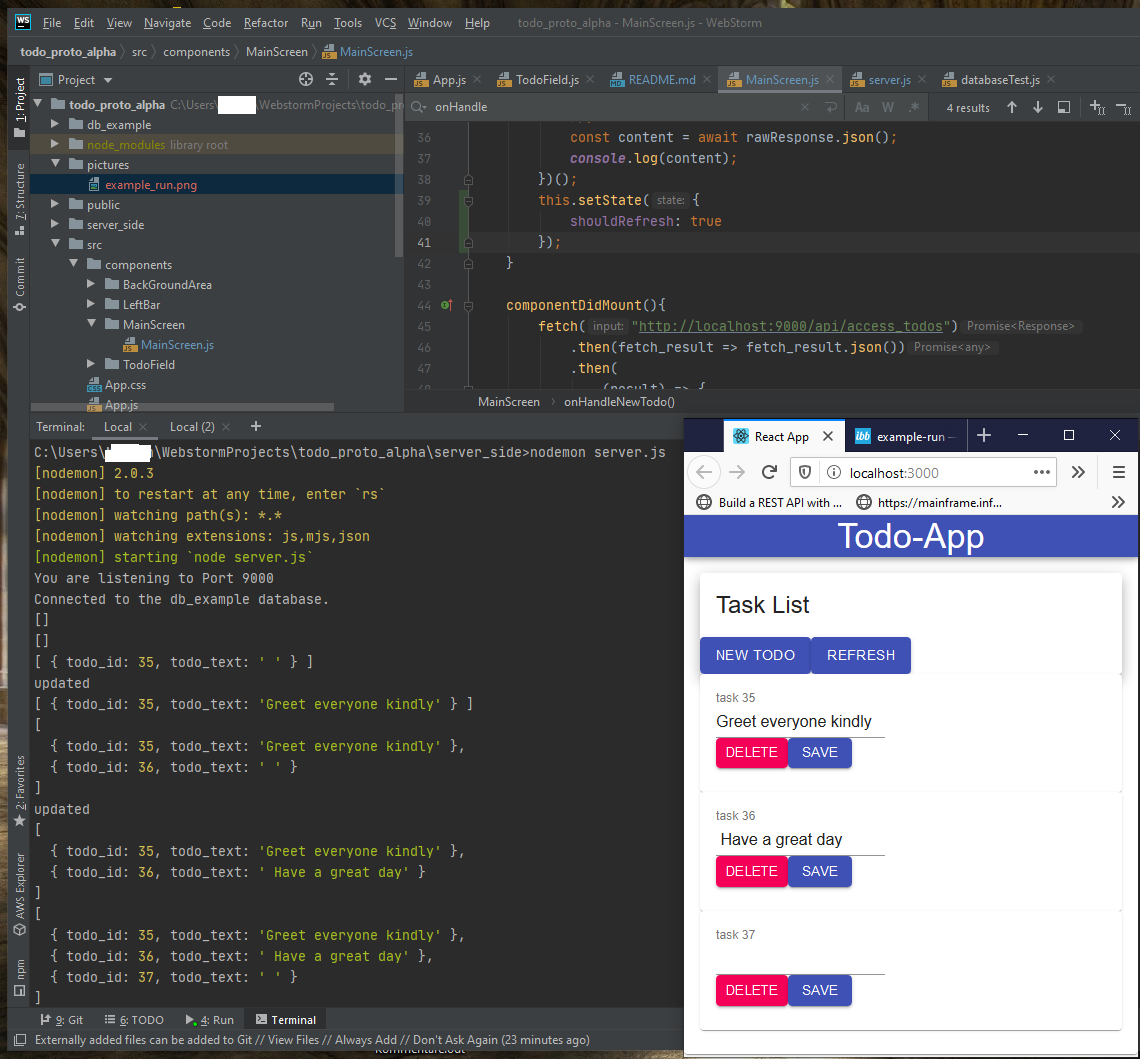
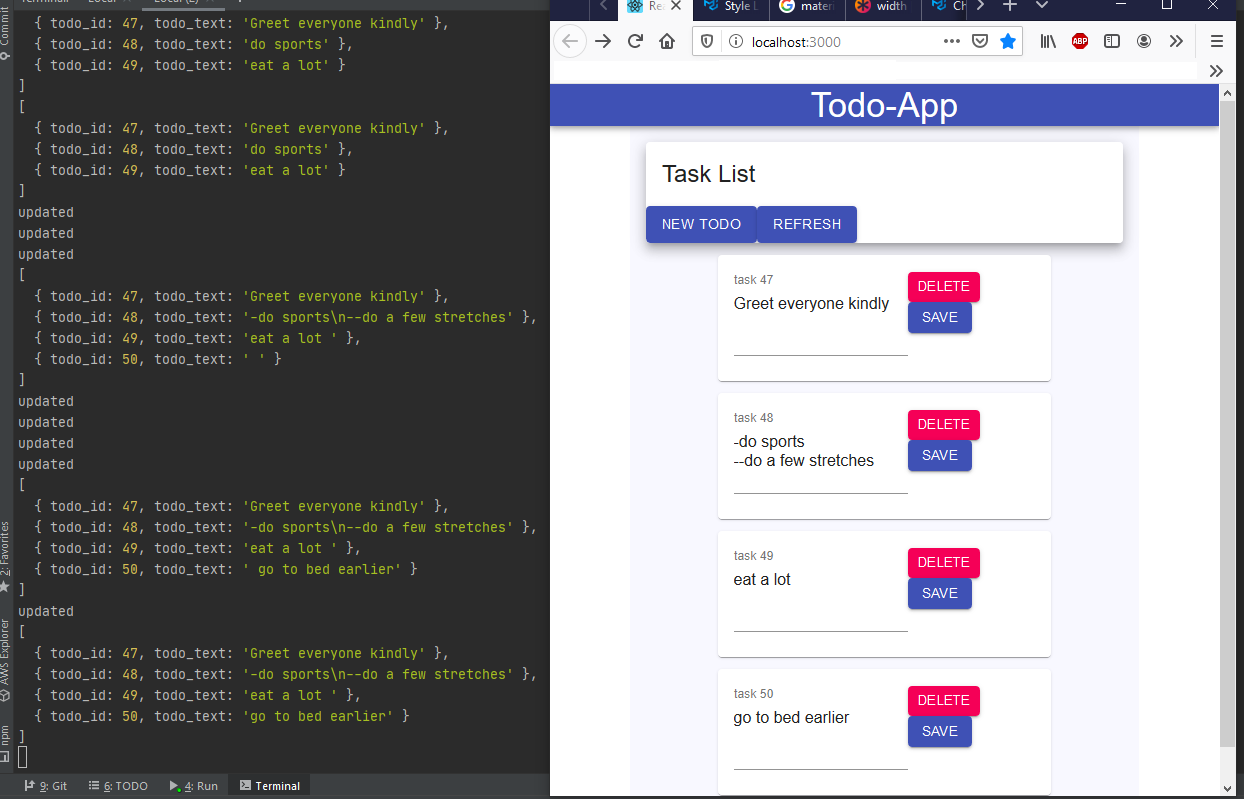
added a little bit of styling via css modules

diff --git a/src/components/TodoField/TodoField.js b/src/components/TodoField/TodoField.js
@@ -8,6 +8,8 @@ import CardContent from '@material-ui/core/CardContent';
 
 import Typography from '@material-ui/core/Typography';
 
+import styles from "./TodoField.module.css"
+
 class TodoField extends React.Component{
     constructor(props) {
         super(props);
@@ -55,9 +57,9 @@ class TodoField extends React.Component{
 
     render(){
         return(
-                <Card>
-                    <CardContent>
-                        <div>
+                <Card className={styles.myMui}>
+                    <CardContent className={styles.flex_start}>
+                        <div className={styles.left_box}>
                             <TextField
                                 id={this.state.item_label + "_" + this.state.item_id.toString()}
                                 label={this.state.item_label + " " + this.state.item_id.toString()}
@@ -66,9 +68,12 @@ class TodoField extends React.Component{
                                 color="primary"
                                 onChange={this.onHandleChange}
                                 value={this.state.item_value}
+                                rows={2}
+                                labelWidth={60}
+                                className={styles.Field_Look}
                             />
                         </div>
-                        <div>
+                        <div className={styles.right_box}>
                             <Button variant="contained"
                                     color="secondary"
                                     size="small"

diff --git a/src/components/MainScreen/MainScreen.js b/src/components/MainScreen/MainScreen.js
@@ -5,8 +5,11 @@ import CardContent from '@material-ui/core/CardContent';
 import CardHeader from '@material-ui/core/CardHeader';
 import Button from "@material-ui/core/Button";
 import Typography from '@material-ui/core/Typography';
-
 import AppBar from '@material-ui/core/AppBar';
+
+
+import styles from "./MainScreen.module.css"
+
 
 
 class MainScreen extends React.Component {
@@ -114,7 +117,7 @@ class MainScreen extends React.Component {
 
                 <div>
                     <Card>
-                        <CardContent>
+                        <CardContent className={styles.MainScreen_CardContent_Basic}>
                             <Card raised={true}>
                                 <CardHeader title="Task List"></CardHeader>
                                 <Button variant="contained"
@@ -125,11 +128,11 @@ class MainScreen extends React.Component {
                                         onClick={() => {this.setState({shouldRefresh: true})}}>
                                     Refresh</Button>
                             </Card>
+
                             {this.showTodos()}
                         </CardContent>
                     </Card>
                 </div>
-
             </div>
 
         );

diff --git a/src/components/TodoField/TodoField.module.css b/src/components/TodoField/TodoField.module.css
@@ -1,0 +1,34 @@
+.myMui{
+    background-color: purple;
+    padding-top: 1px;
+    padding-bottom: 1px;
+    margin-top: 12px;
+    margin-bottom: 12px;
+    margin-left: auto;
+    margin-right: auto;
+    max-width: 100%;
+    max-height: 100%;
+    width: 70%;
+}
+
+.flex_start{
+    display: flex;
+    justify-content: space-evenly;
+}
+
+.left_box{
+    flex-grow: 10; /* default 0 */
+    /*background-color: cornflowerblue;*/
+
+}
+
+.right_box{
+    flex-grow: 1; /* default 0 */
+    /*background-color: #8b0000;*/
+}
+
+.Field_Look{
+    width: 100%;
+    max-height: 100%;
+    max-width: 100%;
+}

diff --git a/src/components/MainScreen/MainScreen.module.css b/src/components/MainScreen/MainScreen.module.css
@@ -1,0 +1,8 @@
+
+.MainScreen_CardContent_Basic{
+    background-color: ghostwhite;
+    padding: 4px;
+    margin-left: 80px;
+    margin-right: 80px;
+}
+

diff --git a/test/server_test/server_test.js b/test/server_test/server_test.js
@@ -91,7 +91,4 @@ describe("server test", ()=>{
                 });
         });
     });
-
-
-
 });
